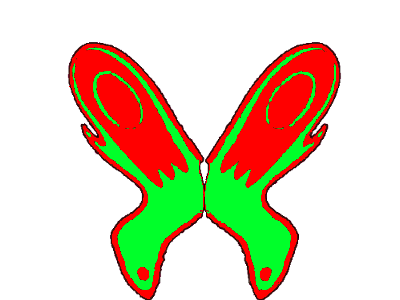
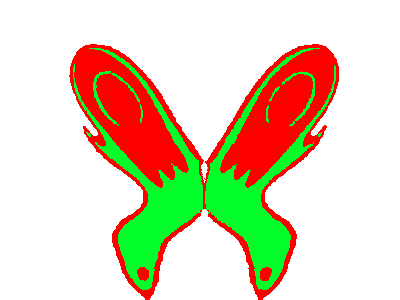
working on troll wings

diff --git a/javascripts/handle_sprites.js b/javascripts/handle_sprites.js
@@ -88,7 +88,7 @@ function wings(canvas,player){
 
   ctx = canvas.getContext('2d');
   //var num = player.quirk.favoriteNumber;
-	var num = 10;
+  var num = 0;
   var imageString = "wing"+num + ".png";
   addImageTag(imageString)
   var img=document.getElementById(imageString);
